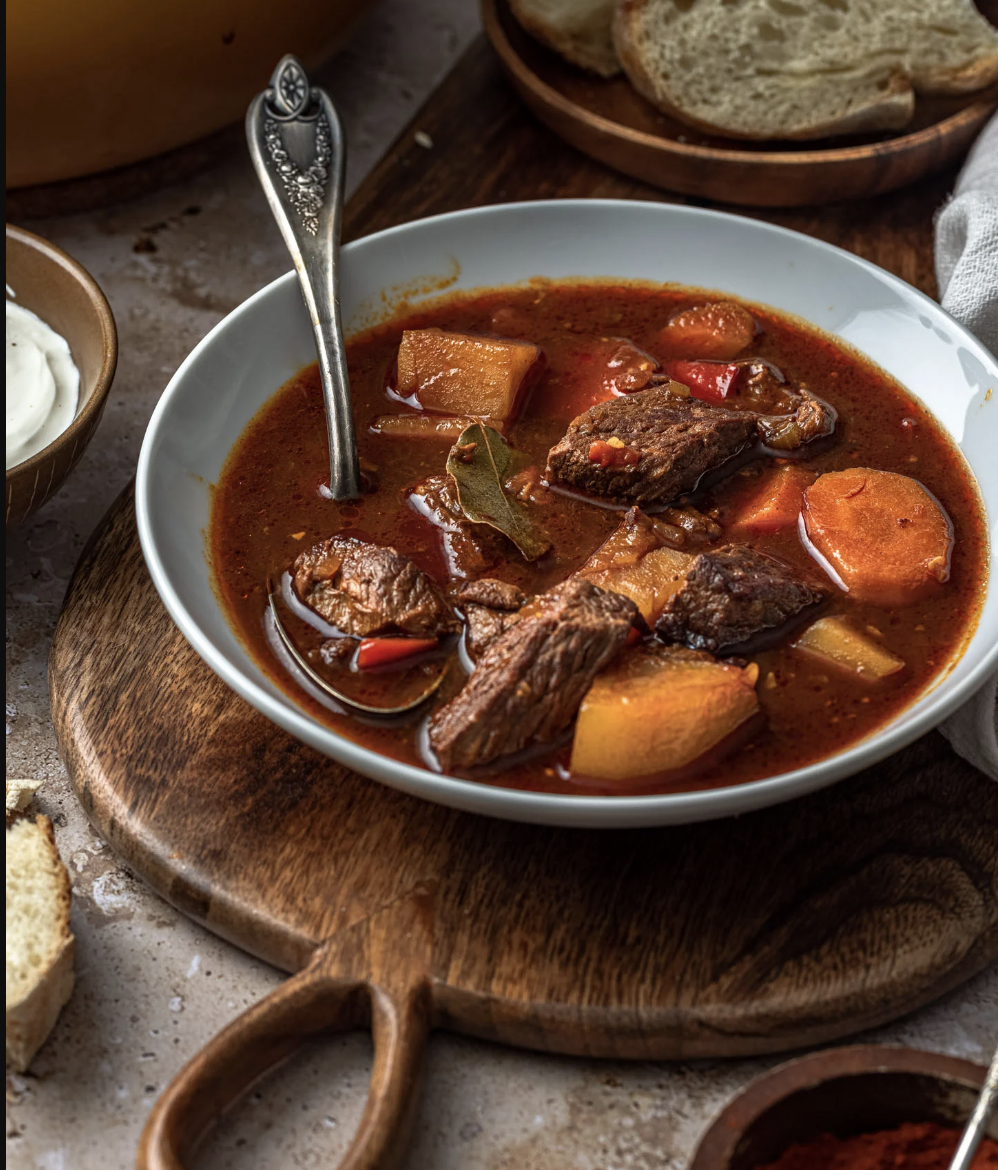
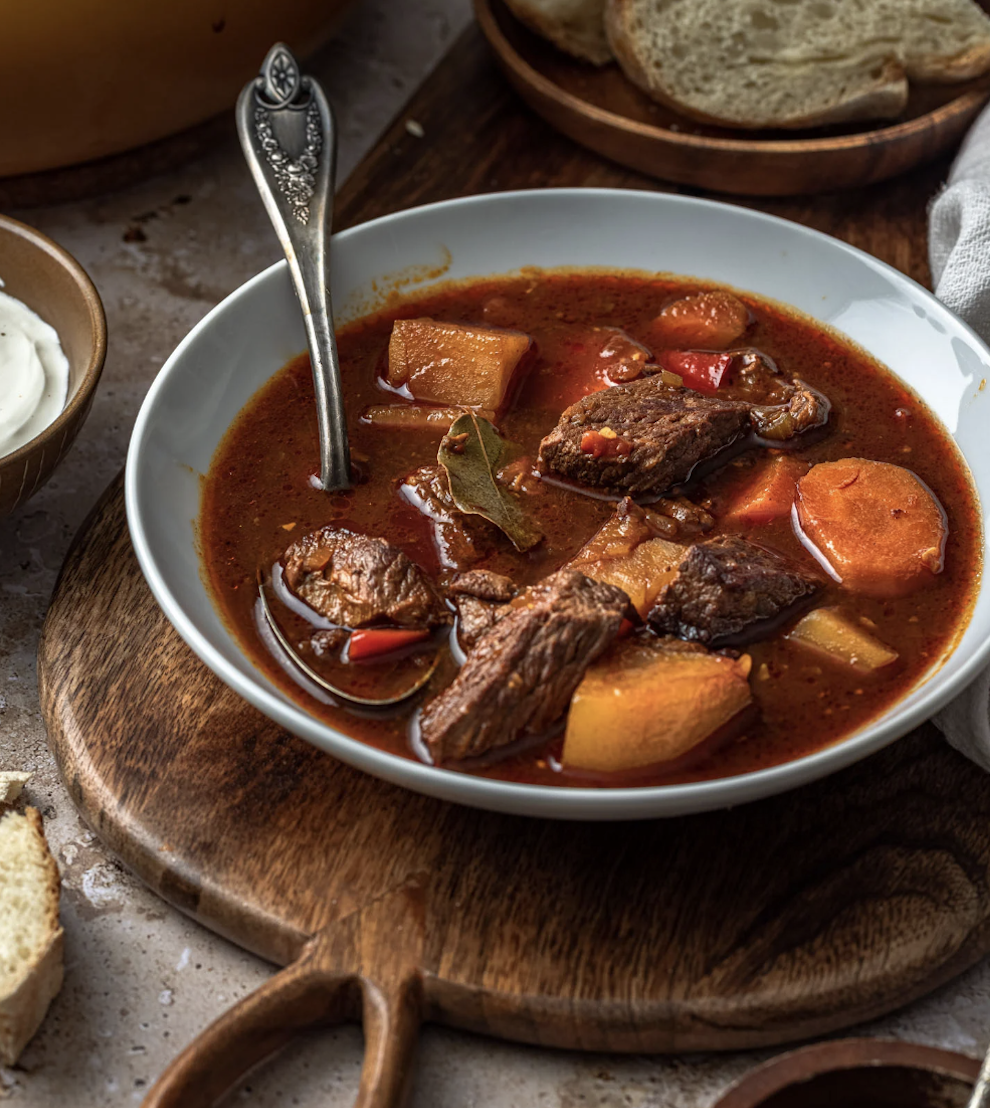
Edited the screenshot to remove line and added CSS
Removed a black line from the screenshot for goulash,
and added a stylesheet with colors and background colors
for titles and headers.

diff --git a/recipes/goulash.html b/recipes/goulash.html
@@ -4,33 +4,40 @@
     <meta charset="UTF-8">
     <meta name="viewport" content="width=device-width, initial-scale=1.0">
     <title>Goulash Recipe | Recipe Site</title>
+    <link rel="stylesheet" href="../styles.css">
 </head>
 <body>
-    <h1>Recipe for Goulash</h1>
-    <img src="./goulash.png" alt="A deliciously cooked goulash">
-    <h2>Hungarian Style Goulash</h2>
-    <p>This version of Goulash is Hungarian-style. It is made to simmer for
-        hours It's delicious with bread, or on its own. It tastes like a thick, warm hug.
+    <h1 class="headers page-header">Recipe for Goulash</h1>
+    <img class="photo" src="./goulash.png" alt="A deliciously cooked goulash">
+    <h2 class="recipe-name">Hungarian Style Goulash</h2>
+    <p>This Hungarian-style goulash is hearty and flavorful, perfect for cold days.
+         Let it simmer for hours to develop rich flavors. Serve with fresh bread or enjoy it on its own. A warm, comforting dish that feels like a hug.
     </p>
-    <h3>Ingredients:</h3>
-    <ul>
-        <li>3 Potatoes</li>
-        <li>4 Carrots</li>
-        <li>5 Mushrooms</li>
-        <li>1 Cup beef stock</li>
-        <li>1 lb chuck stew beef</li>
+    <h3 class="headers ingredient-header">Ingredients:</h3>
+    <ul class="ingred-list">
+        <li>3 potatoes, peeled and diced</li>
+        <li>4 carrots, sliced</li>
+        <li>5 mushrooms, sliced</li>
+        <li>1 cup beef stock</li>
+        <li>1 lb chuck stew beef, cubed</li>
         <li>1/2 cup flour</li>
-        <li>salt & pepper</li>
+        <li>Salt and pepper to taste</li>
+        <li>2 tbsp of Hungarian paprika</li>
+        <li>1 tsp of carayway seeds</li>
+        <li>A pinch of hot paprika</li>
         <li>16 oz can diced tomatoes</li>
     </ul>
-    <h3>Steps:</h3>
+    <h3 class="headers steps-header">Steps:</h3>
     <ol>
-        <li>Coat the meat with the flour.</li>
-        <li>Sear the meat.</li>
-        <li>Add the sliced veggies to the pot.</li>
-        <li>Fill the pot with water and stock until <em>barely</em> covering the veggies.</li>
-        <li>Simmer for 4 hours.</li>
-        <li>Serve with bread or on its own.</li>
+        <li>In a big bowl, put the beef.</li>
+        <li>In the same bowl, coat the beef with the flour, until each piece is fully coated.</li>
+        <li>Heat a large pot or Dutch oven over medium-high heat. Add a drizzle of oil and sear the beef on all sides until browned. Remove and set aside.</li>
+        <li>In the same pot, stir the onions until translucent.</li>
+        <li>When the onions are translucent, add the spices and mix it, letting it sit for 1 minute.</li>
+        <li>Return the seared beef to the pot. Add all the ingredients left over into the pot and stir.</li>
+        <li>Add water as needed to just barely halfway to top of the the vegetables and beef. (You should only be able to see a bit of the liquid from the sides of the pot).</li>
+        <li>Bring the mixture to a gentle boil, then reduce the heat to low. Cover and let simmer for 2-4 hours, stirring occasionally.</li>
+        <li>Adjust seasoning with additional salt and pepper if needed. Serve hot with fresh bread or enjoy on its own.</li>
     </ol>
 </body>
 </html>

diff --git a/recipes/schnitzel.html b/recipes/schnitzel.html
@@ -4,25 +4,37 @@
     <meta charset="UTF-8">
     <meta name="viewport" content="width=device-width, initial-scale=1.0">
     <title>Schnitzel Recipe | Recipe Site</title>
+    <link rel="stylesheet" href="../styles.css">
 </head>
 <body>
-    <h1>Recipe for Schnitzel</h1>
-    <img src="./schnitzel.png" alt="A deliciously fried schnitzel">
-    <h2>German Style Schnitzel</h2>
-    <p>This version of schnitzel should only take 5 minutes to prepare. It's eays and delicious.
+    <h1 class="headers page-header">Recipe for Schnitzel</h1>
+    <img class="photo" src="./schnitzel.png" alt="A deliciously fried schnitzel">
+    <h2 class="recipe-name">German Style Schnitzel</h2>
+    <p>This classic schnitzel recipe is crispy, golden, and packed with flavor. It's quick and easy to make, perfect for a satisfying meal in under 30 minutes.</p>
     </p>
-    <h3>Ingredients:</h3>
-    <ul>
-        <li>5 chicken breasts, flattened.</li>
-        <li>1 egg</li>
-        <li>Panko crumbs</li>
+    <h3 class="headers ingredient-header">Ingredients:</h3>
+    <ul class="ingred-list">
+        <li>5 chicken breasts, flattened to 1/4 inch thickness</li>
+        <li>1 large egg</li>
+        <li>1 cup panko breadcrumbs</li>
+        <li>1/2 cup all-purpose flour</li>
+        <li>Salt and pepper to taste</li>
+        <li>1/2 teaspoon paprika (optional for extra flavor)</li>
+        <li>Vegetable oil or clarified butter for frying</li>
+        <li>Lemon wedges for serving</li>
     </ul>
-    <h3>Steps:</h3>
+    <h3 class="headers steps-header">Steps:</h3>
     <ol>
-        <li>Coat the chicken in the eggs.</li>
-        <li>Cover the chicken in the panko crumbs, and redip in the eggs.</li>
-        <li>Once in the eggs, redip back into the panko crumbs (to double coat it).</li>
-        <li>Fry it in a pan until chicken is cooked.</li>
+        <li>In an empty bowl, mix the flour with salt, pepper, and paprika.
+        <li>In another empty bowl, whisk the egg.</li>
+        <li>In a deep plate, or another empty mixing bowl, pour in the breadcrumbs.</li>
+        <li>Tap each chicken breast dry with a paper towel, and then coat in the seasoned flour, ensuring an even layer.</li>
+        <li>Dip the floured chicken into the egg bowl, making sure it's completely covered.</li>
+        <li>Press the chicken into the panko breadcrumbs to coat. For extra crispiness, repeat the egg and breadcrumb steps to double coat.</li>
+        <li>Heat about 1/4 inch of oil or butter in a large skillet over medium-high heat. The oil should shimmer but not smoke.</li>
+        <li>Fry the schnitzel for 3-4 minutes on each side or until golden brown and cooked through. Adjust the heat as needed to avoid burning.</li>
+        <li>Transfer the schnitzel to a plate lined with paper towels to drain excess oil.</li>
+        <li>Serve immediately with lemon wedges and your favorite sides, such as french fries or a mediterranean salad.</li>
     </ol>
 </body>
 </html>

diff --git a/recipes/fajitas.html b/recipes/fajitas.html
@@ -4,28 +4,35 @@
     <meta charset="UTF-8">
     <meta name="viewport" content="width=device-width, initial-scale=1.0">
     <title>Fajitas Recipe | Recipe Site</title>
+    <link rel="stylesheet" href="../styles.css">
 </head>
 <body>
-    <h1>Recipe for Fajitas</h1>
-    <img src="./fajitas.png" alt="A deliciously seared skillet of fajitas">
-    <h2>Mexican Style Fajitas</h2>
-    <p>Fajitas are originally from Mexico. They are a delicious, easy to make dinner.
+    <h1 class="headers page-header">Recipe for Fajitas</h1>
+    <img class="photo" src="./fajitas.png" alt="A deliciously seared skillet of fajitas">
+    <h2 class="recipe-name">Mexican Style Fajitas</h2>
+    <p>Fajitas are a classic Mexican dish. When ordered at a restaurant, everyone's head will turn. 
+        This recipe is simple to follow and allows you to have that very satisfaction at home.
     </p>
-    <h3>Ingredients:</h3>
-    <ul>
-        <li>2 red bell peppers</li>
-        <li>1 yellow bell pepper</li>
-        <li>Assorted spices</li>
-        <li>5 chicken breasts, sliced</li>
-        <li>2 TBSP oil</li>
-        <li>1 serrano pepper</li>
+    <h3 class="headers ingredient-header">Ingredients:</h3>
+    <ul class="ingred-list">
+        <li>2 red bell peppers, sliced</li>
+        <li>1 yellow bell pepper, sliced</li>
+        <li>1 serrano pepper, finely chopped (optional for extra spice)</li>
+        <li>5 chicken breasts, sliced into thin strips</li>
+        <li>2 tablespoons olive oil</li>
+        <li>1 teaspoon smoked paprika</li>
+        <li>1 teaspoon cumin</li>
+        <li>1 teaspoon garlic powder</li>
+        <li>Salt and pepper to taste</li>
     </ul>
-    <h3>Steps:</h3>
+    <h3 class="headers steps-header">Steps:</h3>
     <ol>
-        <li>Spice the meat and peppers.</li>
-        <li>Sear the meat in a skillet</li>
-        <li>Put the skillet in the oven for 10 minutes, or until chicken is done.</li>
-        <li>Let cool, and serve with tortillas.</li>
+        <li>Preheat the oven to 375°F (190°C).</li>
+        <li>In a large bowl, toss the chicken and peppers with olive oil, and spices until evenly coated.</li>
+        <li>Heat a skillet over medium-high heat and sear the chicken for 5-7 minutes, or until lightly browned and cooked through.</li>
+        <li>Add the sliced bell peppers and serrano pepper to the skillet, and sauté for approximately 4 minutes, or until the vegetables are slightly softened but still crisp.</li>
+        <li>Transfer the skillet to the oven and cook for an additional 8-10 minutes, or until the chicken is fully cooked and the peppers are tender.</li>
+        <li>Remove from the oven, let it cool for a few minutes, and serve with warm tortillas, guacamole, sour cream, and your other favorite toppings.</li>
     </ol>
 </body>
 </html>

diff --git a/index.html b/index.html
@@ -4,10 +4,11 @@
     <meta charset="UTF-8">
     <meta name="viewport" content="width=device-width, initial-scale=1.0">
     <title>Recipe Site</title>
+    <link rel="stylesheet" href="./styles.css">
 </head>
 <body>
-    <h1>Odin Recipes</h1>
-    <ul>
+    <h1 class="header mainpage-header">Odin Recipes</h1>
+    <ul class="recipe-list">
         <li><a href="./recipes/goulash.html">Goulash Recipe</a></li>
         <li><a href="./recipes/schnitzel.html">Schnitzel Recipe</a></li>
         <li><a href="./recipes/fajitas.html">Fajitas Recipe</a></li>

diff --git a/styles.css b/styles.css
@@ -1,0 +1,31 @@
+* {
+    font-family: Georgia, Verdana, Garamond;
+}
+
+.headers {
+    font-weight: bold;
+    color: #586BA4;
+}
+.recipe-name{
+    background-color: #586BA4;
+    color: #F3F3F3;
+    border: solid 2px #0C1618;
+}
+.steps-header,
+.ingredient-header {
+    font-size: 20px;
+    background-color: #F3F3F3;
+    color: #0C1618;
+    border: solid 2px #FF521B;
+}
+
+.recipe-list {
+    color: #0C1618;
+    background-color: #F3C677;
+}
+
+
+.photo {
+    width: 400px;
+    height: auto;
+}
